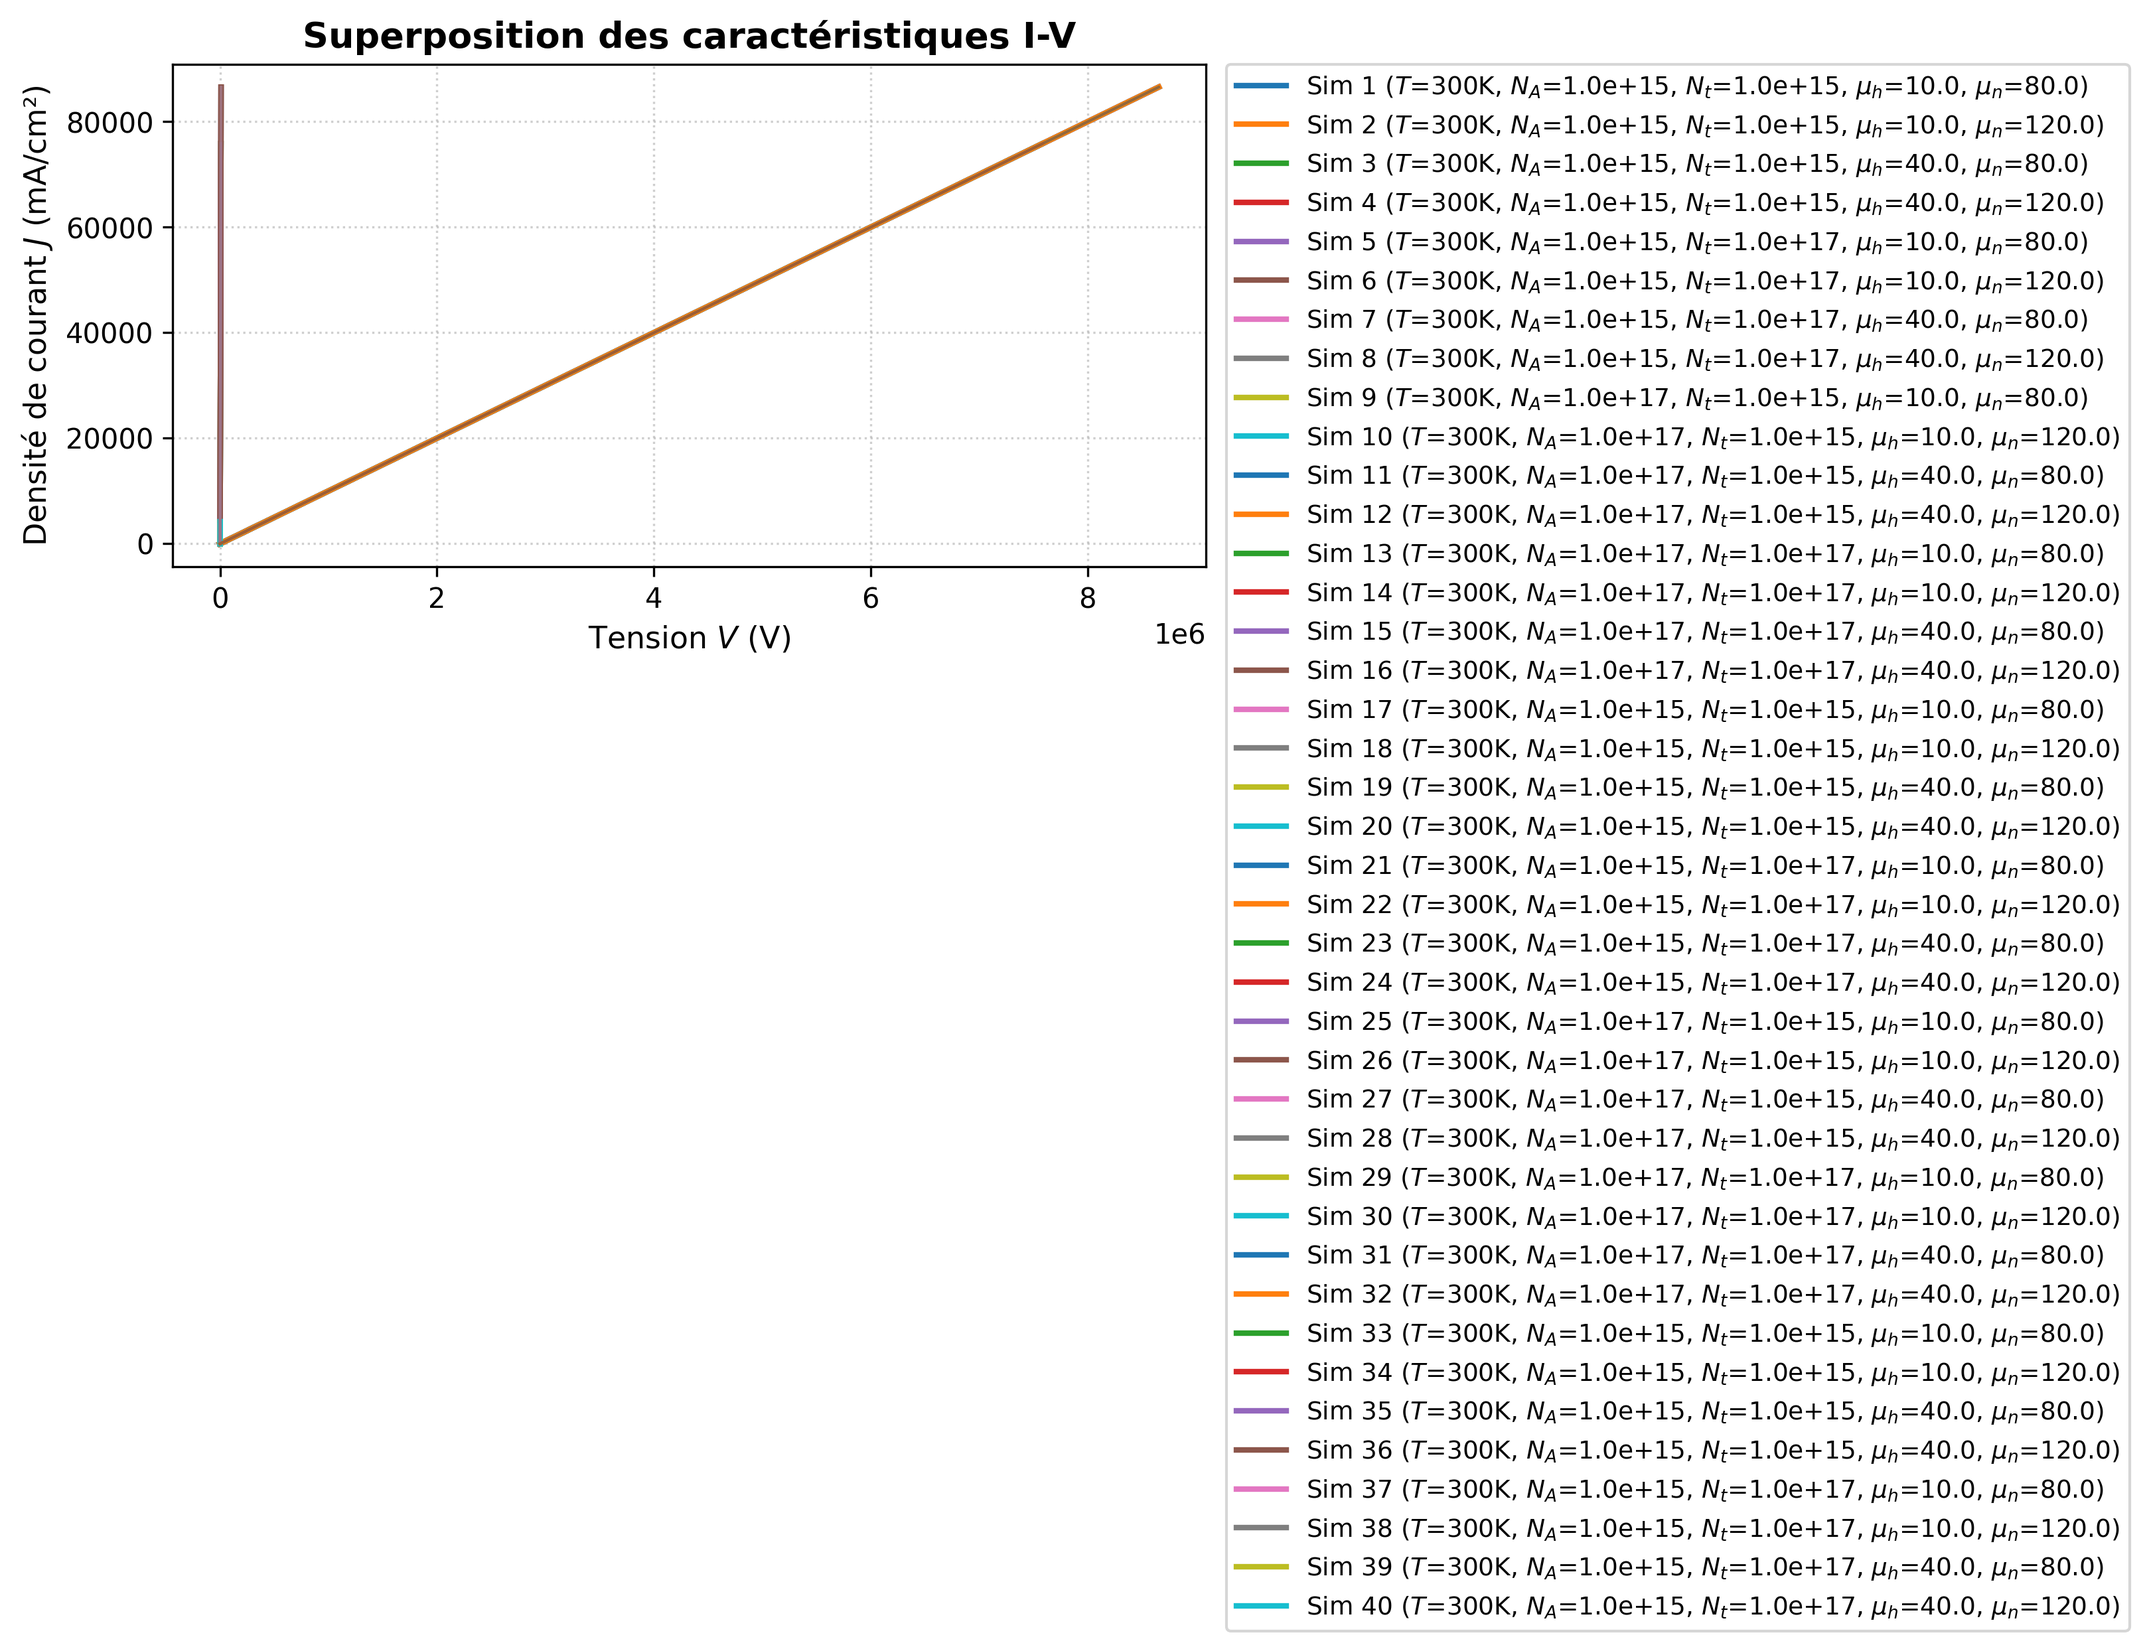
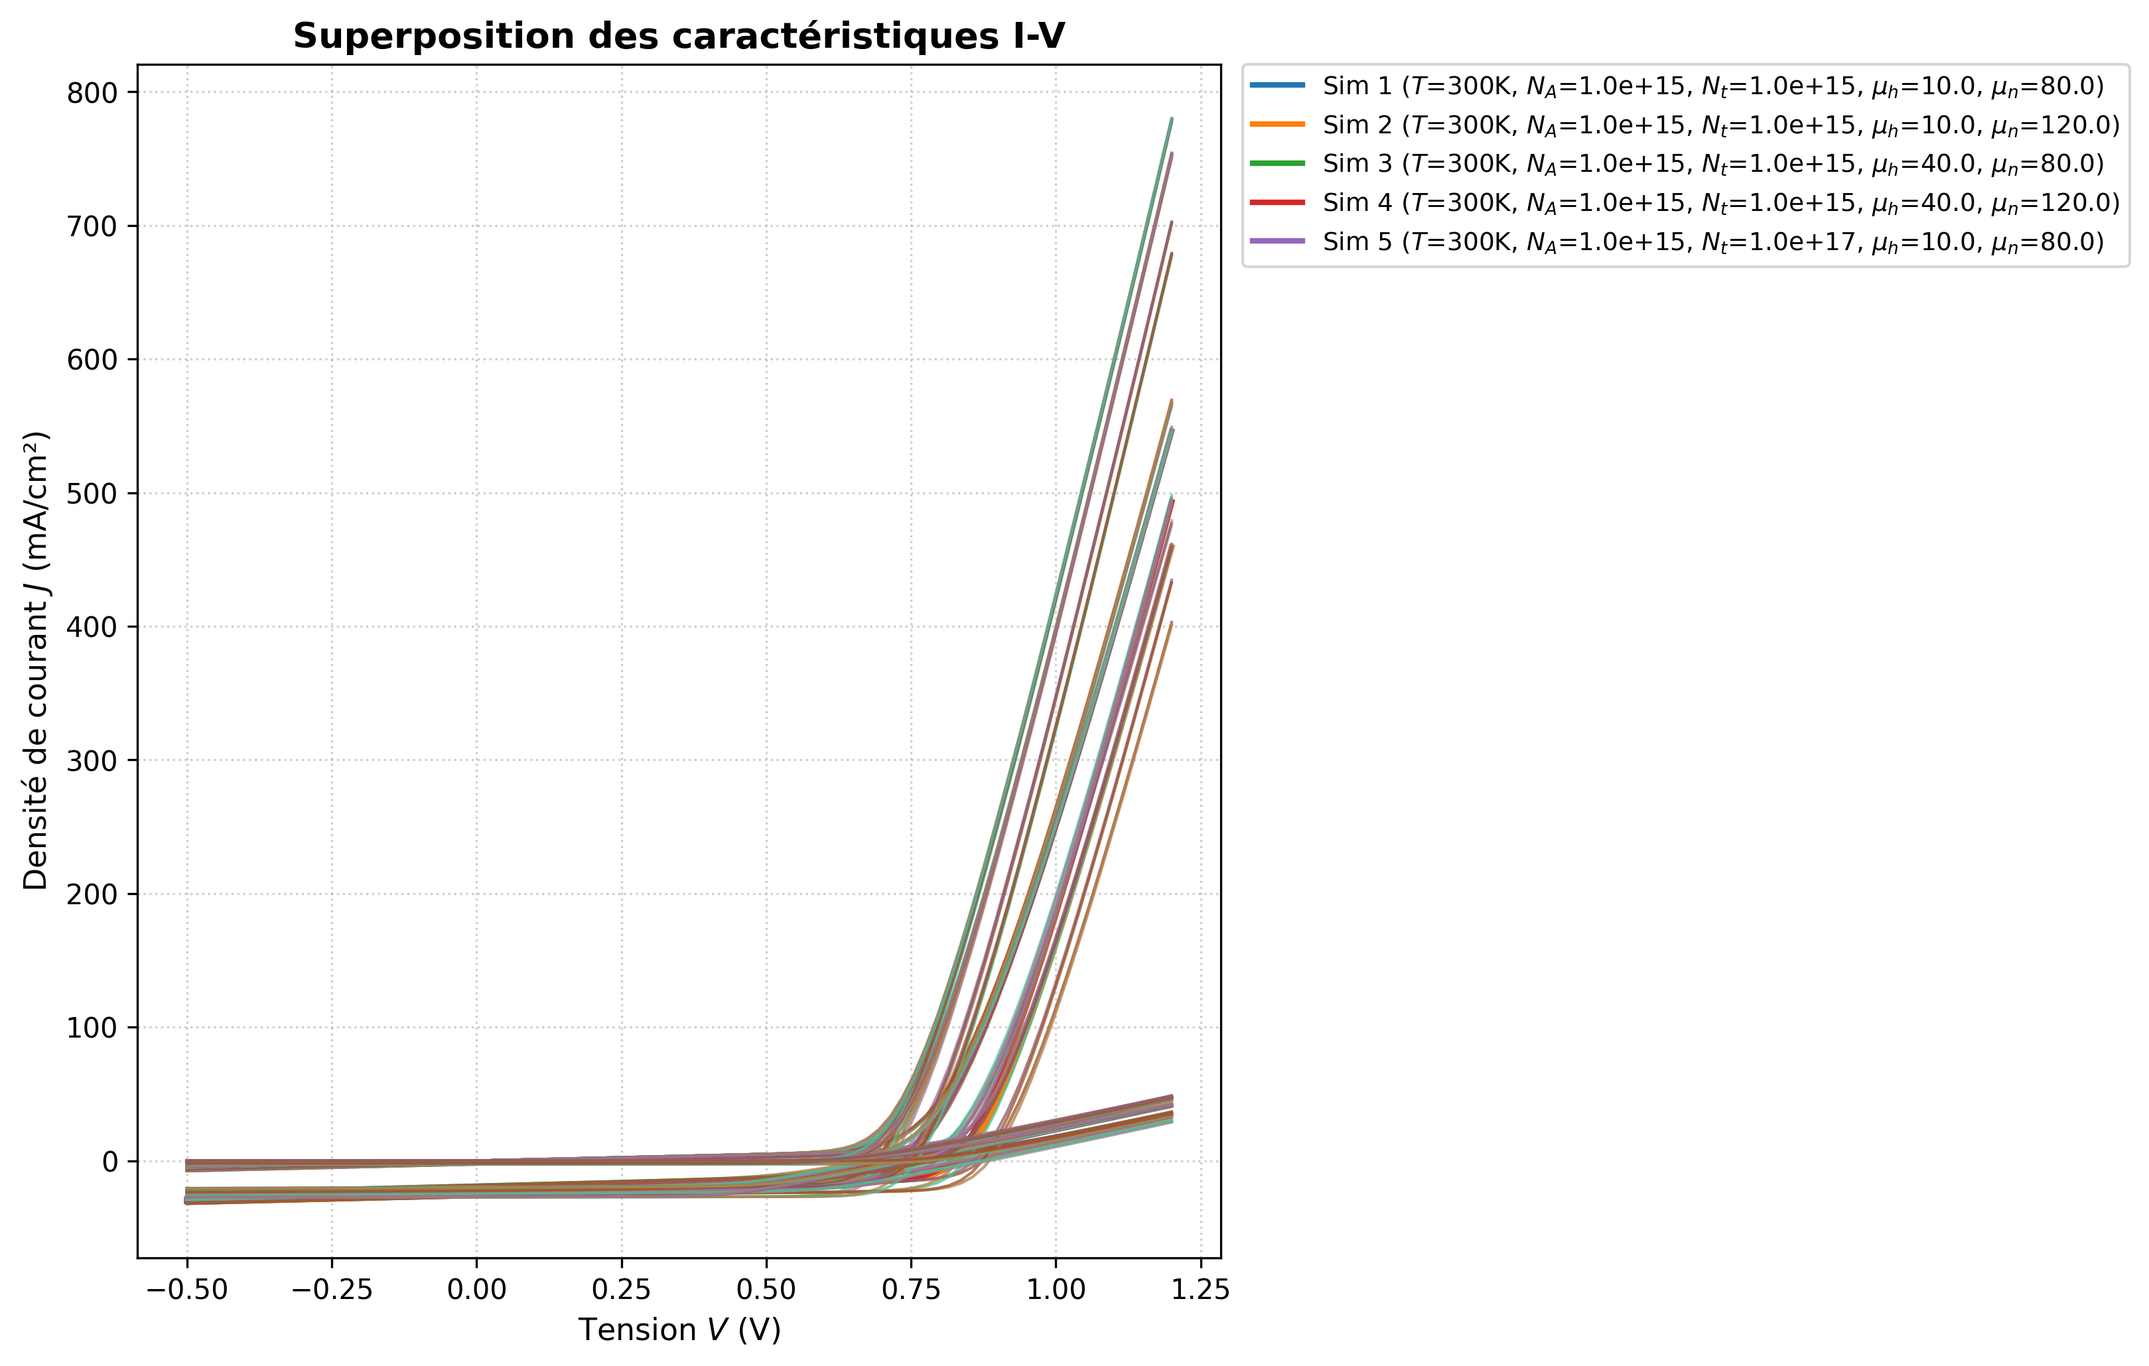
feature - code modulé + data processing

diff --git a/pipeline/db_batch_generator.py b/pipeline/db_batch_generator.py
@@ -1,0 +1,68 @@
+from pipeline.config import BATCH_PARAMETERS, CSV_IV_PATH, CSV_QE_PATH, SETTINGS
+from utils.utils import preparation_simulation, post_simulation_cleanup, delete_file, run_multiprocess, write_csv_file, baseline_information
+from pipeline.scaps_batch_simulation import run_batch
+from functools import partial
+import time
+
+singleshot = False # True pour exécuter en mode single shot, False pour exécuter en mode multiprocess
+
+def run_and_return(parameters, illumination="light", temperature=300, intensity=100, Rsh=1E2, singleshot=False):
+    return run_batch(f"simu_{parameters[0]['startvalue']}", 
+                     f"batch_{parameters[0]['startvalue']}", 
+                     parameters, illumination, temperature, intensity, Rsh, singleshot)
+
+
+def full_process_multi(process_task, id_def=None):
+    outputs = run_multiprocess(process_task, BATCH_PARAMETERS)
+    for batch_path, result_iv_path, result_qe_path, results_iv, results_qe in outputs:
+        delete_file(batch_path)
+        delete_file(result_iv_path)
+        delete_file(result_qe_path)
+        write_csv_file(results_iv, CSV_IV_PATH, id_def=id_def)
+        write_csv_file(results_qe, CSV_QE_PATH, id_def=id_def)
+    
+    post_simulation_cleanup()
+
+
+def full_process_single(batch_output, id_def=None):
+    batch_path, result_iv_path, result_qe_path, results_iv, results_qe = batch_output
+    delete_file(batch_path)
+    delete_file(result_iv_path)
+    delete_file(result_qe_path)
+    write_csv_file(results_iv, CSV_IV_PATH, id_def=id_def)
+    write_csv_file(results_qe, CSV_QE_PATH, id_def=id_def)
+
+
+if __name__ == "__main__":
+    def_id = baseline_information()
+
+    start_time = time.time()
+    # cas en singleshot :
+    if singleshot :
+        preparation_simulation()
+        batch_output = run_batch(
+            f"singleshot_simu_{BATCH_PARAMETERS[0][0]['startvalue']}", 
+            f"batch_{BATCH_PARAMETERS[0][0]['startvalue']}",
+            BATCH_PARAMETERS[0], illumination="light", temperature=300, intensity=100, Rsh=1E2, singleshot=True
+        )
+        full_process_single(batch_output, id_def=f"100,{1E2},{def_id}")
+
+        batch_output = run_batch(
+            f"singleshot_simu_{BATCH_PARAMETERS[0][0]['startvalue']}", 
+            f"batch_{BATCH_PARAMETERS[0][0]['startvalue']}",
+            BATCH_PARAMETERS[0], illumination="light", temperature=300, intensity=100, Rsh=1E5, singleshot=True
+        )
+        full_process_single(batch_output, id_def=f"100,{1E5},{def_id}")
+        post_simulation_cleanup()
+    # cas en multiprocess :
+    else :
+        # génération de l'ensemble des cas :
+        for temp, intensity, rsh in SETTINGS:
+            if intensity :
+                process_task = partial(run_and_return, illumination="light", temperature=temp, intensity=intensity, Rsh=rsh, singleshot=False)
+            else :
+                process_task = partial(run_and_return, illumination="dark", temperature=temp, intensity=intensity, Rsh=rsh, singleshot=False)
+            full_process_multi(process_task, id_def=f"{intensity},{rsh},{def_id}")
+
+    end_time = time.time()
+    print(f"Temps de traitement : {end_time - start_time:.2f} secondes")

diff --git a/pipeline/scaps_batch_simulation.py b/pipeline/scaps_batch_simulation.py
@@ -1,7 +1,7 @@
 import os
-from parser import parse_iv_file, parse_qe_file
-from utils import scaps_execution
-from config import SCRIPT_NAME, BASELINE_NAME_V2, BATCH_PATH, RESULTS_PATH
+from utils.parser import parse_iv_file, parse_qe_file
+from utils.utils import scaps_execution
+from pipeline.config import SCRIPT_NAME, BASELINE_NAME_V2, BATCH_PATH, RESULTS_PATH
 
 def generate_sbf_file(parameters, batch_name):
     """
@@ -37,7 +37,7 @@ def generate_sbf_file(parameters, batch_name):
         return False
 
 
-def run_scaps_batch_simulation(simulation_name, batch_name, illumination="light", temperature=300, intensity=100):
+def run_scaps_batch_simulation(simulation_name, batch_name, illumination="light", temperature=300, intensity=100, Rsh=1E2, singleshot=False):
     """
     exécute la simulation de scaps en utilisant le script généré
     :param simulation_name: nom du fichier de résultat de la simulation
@@ -45,6 +45,7 @@ def run_scaps_batch_simulation(simulation_name, batch_name, illumination="light"
     if illumination not in ["light", "dark"]:
         raise ValueError("L'illumination doit être 'light' ou 'dark'.")
     qe = 1 if illumination == "light" else 0
+    type = "singleshot" if singleshot else "batch"
 
     script_content = (
         # chargement des fichiers pour la simulation
@@ -70,12 +71,12 @@ def run_scaps_batch_simulation(simulation_name, batch_name, illumination="light"
         # f'action qe.points 85\n'
 
         # valeur des paramètres fixes
-        # f'set external.Rs {Rs}\n' # résistance série
-        # f'set external.Rsh {Rsh}\n' # résistance parallèle
+        f'set external.Rs 1E-13\n' # résistance série
+        f'set external.Rsh {Rsh}\n' # résistance parallèle
         # f'set layer1.Eg 1.55\n' # bandgap
         
         # obtention des résultats
-        f'calculate batch\n'
+        f'calculate {type}\n'
 
         f'save results.iv batch_{simulation_name}.iv\n'
         f'save results.qe batch_{simulation_name}.qe\n'
@@ -86,9 +87,9 @@ def run_scaps_batch_simulation(simulation_name, batch_name, illumination="light"
     scaps_execution(script_name, script_content)
 
 
-def run_batch(simulation_name, batch_name, batch_parameters, illumination="light", temperature=80, intensity=100):
+def run_batch(simulation_name, batch_name, batch_parameters, illumination="light", temperature=300, intensity=100, Rsh=1E2, singleshot=False):
     generate_sbf_file(batch_parameters, batch_name)
-    run_scaps_batch_simulation(simulation_name, batch_name, illumination, temperature, intensity)
+    run_scaps_batch_simulation(simulation_name, batch_name, illumination, temperature, intensity, Rsh, singleshot)
     full_batch_path = os.path.join(BATCH_PATH, f"{batch_name}.sbf")
     full_results_iv_path = os.path.join(RESULTS_PATH, f"batch_{simulation_name}.iv")
     full_results_qe_path = os.path.join(RESULTS_PATH, f"batch_{simulation_name}.qe")

diff --git a/data_processing/data_process.py b/data_processing/data_process.py
@@ -1,0 +1,67 @@
+import pandas as pd
+import numpy as np
+from scipy.interpolate import PchipInterpolator
+
+INPUT = './csv/iv_curve.csv'
+OUTPUT = './csv/iv_curve_processed.csv'
+
+TARGET_V = np.array([
+-0.500000,-0.479762,-0.459524,-0.439286,-0.419048,-0.398810,-0.378571,-0.358333,-0.338095,-0.317857,
+-0.297619,-0.277381,-0.257143,-0.236905,-0.216667,-0.196429,-0.176190,-0.155952,-0.135714,-0.115476,
+-0.095238,-0.075000,-0.054762,-0.034524,-0.014286,0.005952,0.026190,0.046429,0.066667,0.086905,
+0.107143,0.127381,0.147619,0.167857,0.188095,0.208333,0.228571,0.248810,0.269048,0.289286,
+0.309524,0.329762,0.350000,0.370238,0.390476,0.410714,0.430952,0.451190,0.471429,0.491667,
+0.511905,0.532143,0.552381,0.572619,0.592857,0.613095,0.633333,0.653571,0.673810,0.694048,
+0.714286,0.734524,0.754762,0.775000,0.795238,0.815476,0.835714,0.855952,0.876190,0.896429,
+0.916667,0.936905,0.957143,0.977381,0.997619,1.017857,1.038095,1.058333,1.078571,1.098810,
+1.119048,1.139286,1.159524,1.179762,1.200000
+])
+assert len(TARGET_V) == 85, len(TARGET_V)
+
+df = pd.read_csv(INPUT)
+n = len(df)
+
+Vcols = [f'V{i}' for i in range(1, 86)]
+Icols = [f'I{i}' for i in range(1, 86)]
+meta_cols = [c for c in df.columns if c not in Vcols + Icols]
+
+I_out = np.zeros((n, 85))
+trunc_lengths = np.zeros(n, dtype=int)
+
+for r in range(n):
+    V = df.loc[r, Vcols].values.astype(float)
+    I = df.loc[r, Icols].values.astype(float)
+
+    # Truncation: keep up to and including the first V strictly greater than 1.2
+    above = np.where(V > 1.2)[0]
+    if len(above) == 0:
+        cutoff = len(V) - 1  # no aberrant tail, keep all
+    else:
+        cutoff = above[0]   # include first point above 1.2, drop everything after
+
+    Vt = V[:cutoff + 1]
+    It = I[:cutoff + 1]
+    trunc_lengths[r] = len(Vt)
+
+    # PCHIP: shape-preserving cubic Hermite interpolation, well suited to IV curves
+    # (monotonic-ish, no Runge oscillation like a global cubic spline could introduce
+    # near the exponential knee of the diode curve)
+    interpolator = PchipInterpolator(Vt, It)
+    I_out[r, :] = interpolator(TARGET_V)
+
+# Build output dataframe: new V columns (identical target grid for every row),
+# new interpolated I columns, plus all original metadata (physical parameters)
+out = pd.DataFrame(index=df.index)
+for j, c in enumerate(Vcols):
+    out[c] = TARGET_V[j]
+for j, c in enumerate(Icols):
+    out[c] = I_out[:, j]
+for c in meta_cols:
+    out[c] = df[c]
+
+out.to_csv(OUTPUT, index=False)
+
+print('Rows processed:', n)
+print('Truncated length stats: min={}, max={}, mean={:.1f}'.format(
+    trunc_lengths.min(), trunc_lengths.max(), trunc_lengths.mean()))
+print('Saved to', OUTPUT)

diff --git a/pipeline/config.py b/pipeline/config.py
@@ -1,6 +1,6 @@
 import os
 from dotenv import load_dotenv
-from interval import split_interval, chunk_intervals
+from utils.interval import split_interval, chunk_intervals, format_sci
 from itertools import product
 
 load_dotenv()
@@ -20,6 +20,7 @@ BASELINE_NAME_V2 = os.getenv("BASELINE_FILENAME_V2")
 BASELINE_PATH = os.path.join(BASELINE_DIR, BASELINE_NAME)
 BASELINE_PATH_V2 = os.path.join(BASELINE_DIR, BASELINE_NAME_V2)
 CSV_IV_PATH = os.path.abspath(os.getenv("OUTPUT_CSV_IV_PATH"))
+CSV_IV_PROCESSED_PATH = os.path.abspath(os.getenv("OUTPUT_CSV_IV_PROCESSED_PATH"))
 CSV_QE_PATH = os.path.abspath(os.getenv("OUTPUT_CSV_QE_PATH"))
 CSV_DEF_PATH = os.path.abspath(os.getenv("OUTPUT_CSV_DEF_PATH"))
 SIMULATION_NAME = os.getenv("SIMULATION_FILENAME")
@@ -33,17 +34,8 @@ RS_LABEL2 = "nihil"
 RS_LABEL3 = "nihil"
 RS_LABEL4 = "nihil"
 RS_FROM = 5E-1
-RS_TO = 1E1
+RS_TO = 5E0
 RS_STEPS = 2
-
-# Résistance en parallèle Rsh :
-RSH_LABEL1 = "Rsh"
-RSH_LABEL2 = "nihil"
-RSH_LABEL3 = "nihil"
-RSH_LABEL4 = "nihil"
-RSH_FROM = 1E2
-RSH_TO = 1E5
-RSH_STEPS = 2
 
 # Dopage :
 P0_LABEL1 = "layer 1"
@@ -108,7 +100,6 @@ def generate_batch_parameter(label1, label2, label3, label4, from_val, to_val, s
 
 BATCH_PARAMETERS = []
 RS = generate_batch_parameter(RS_LABEL1, RS_LABEL2, RS_LABEL3, RS_LABEL4, RS_FROM, RS_TO, RS_STEPS)
-RSH = generate_batch_parameter(RSH_LABEL1, RSH_LABEL2, RSH_LABEL3, RSH_LABEL4, RSH_FROM, RSH_TO, RSH_STEPS)
 # P0 = generate_batch_parameter(P0_LABEL1, P0_LABEL2, P0_LABEL3, P0_LABEL4, blocs_de_calcul["from"], blocs_de_calcul["to"], blocs_de_calcul["steps"])
 P1 = generate_batch_parameter(P1_LABEL1, P1_LABEL2, P1_LABEL3, P1_LABEL4, DEFAULT_DENSITY_VOLUME_FROM, DEFAULT_DENSITY_VOLUME_TO, DEFAULT_DENSITY_VOLUME_STEPS)
 P2 = generate_batch_parameter(P2_LABEL1, P2_LABEL2, P2_LABEL3, P2_LABEL4, HOLE_FROM, HOLE_TO, HOLE_STEPS)
@@ -121,7 +112,8 @@ P3 = generate_batch_parameter(P3_LABEL1, P3_LABEL2, P3_LABEL3, P3_LABEL4, ELECTR
 
 # cas pour singleprocess :
 P0 = generate_batch_parameter(P0_LABEL1, P0_LABEL2, P0_LABEL3, P0_LABEL4, DOPAGE_FROM, DOPAGE_TO, DOPAGE_STEPS)
-BATCH_PARAMETERS.append([RS, RSH, P0, P1, P2, P3])
+BATCH_PARAMETERS.append([RS, P0, P1, P2, P3])
 
-# SETTINGS = combinaison_settings([300, 200], [100, 10, 1]) # Température (K) x Intensité (% de 1 sun)
-SETTINGS = [(300, 100), (280, 100), (300, 10)] # Température (K) x Intensité (% de 1 sun) #,
+# Température (K) x Intensité (% de 1 sun) x Rsh (Ohm.cm²)
+SETTINGS = [(300, 100, 1E2), (280, 100, 1E2), (300, 10, 1E2), (300, 0, 1E2),
+            (300, 100, 1E5), (280, 100, 1E5), (300, 10, 1E5), (300, 0, 1E5)]

diff --git a/pipeline/dataset_generator.py b/pipeline/dataset_generator.py
@@ -1,4 +1,4 @@
-from config import CSV_IV_PATH, CSV_QE_PATH
+from pipeline.config import CSV_IV_PROCESSED_PATH, CSV_IV_PATH, CSV_QE_PATH
 import pandas as pd
 
 import numpy as np
@@ -12,7 +12,7 @@ OUTPUT_PATH.parent.mkdir(parents=True, exist_ok=True)
 I_COLS      = [f"I{i}"      for i in range(1, 86)]   # I1 … I85
 QE_COLS     = [f"QE{i}"     for i in range(1, 62)]   # QE1 … QE61
 IV_EXTRA    = ["Voc", "Jsc", "FF", "eta", "V_MPP", "J_MPP"]
-SHARED_KEYS = ["N_A", "N_t", "mu_h"]
+SHARED_KEYS = ["Rs", "Rsh", "N_A", "N_t", "mu_h", "mu_n"]
 COND_COLS   = ["T", "intensity"]
 ID_COL      = ["ID_def"]
  
@@ -30,8 +30,8 @@ CASES = {
 CASES_WITH_QE = {"A", "B", "C"}   # D n'a pas de courbe QE
  
 # Lecture 
-print(f"Lecture de {CSV_IV_PATH} …")
-iv_df = pd.read_csv(CSV_IV_PATH)
+print(f"Lecture de {CSV_IV_PROCESSED_PATH} …")
+iv_df = pd.read_csv(CSV_IV_PROCESSED_PATH)
  
 print(f"Lecture de {CSV_QE_PATH} …")
 qe_df = pd.read_csv(CSV_QE_PATH)

diff --git a/data_plot/plot_iv_curves.py b/data_plot/plot_iv_curves.py
@@ -82,9 +82,9 @@ def plot_iv_curves(chemin_fichier, n_points=None):
         # Récupération des 4 derniers éléments de la ligne complète
         param_physiques = ligne[-9:]
 
-        if idx < 40:
+        if idx < 5:
             if len(ligne) >= (2 * n) + 4:
-                T, _, _, N_A, N_t, mu_h, mu_n, _, _ = param_physiques
+                T, _, N_A, N_t, mu_h, mu_n, _, _, _ = param_physiques
                 # Label combinant le numéro de simulation et les paramètres physiques
                 label_courbe = (
                     f"Sim {idx+1} ($T$={T:.0f}K, "
@@ -130,5 +130,5 @@ def plot_iv_curves(chemin_fichier, n_points=None):
     print(f"Graphique sauvegardé ({len(donnees)} courbe(s)) : {nom_image}")
 
 
-plot_iv_curves(r"./csv/iv_curve.csv")
+plot_iv_curves(r"./csv/iv_curve_processed.csv")
 # verifier_coherence_csv(r"./csv/iv_curve.csv")

diff --git a/utils/parser.py b/utils/parser.py
@@ -442,6 +442,11 @@ def parse_iv_file(
     For dark simulations, Voc/Jsc/FF/eta/V_MPP/J_MPP are set to '0'.
     Only the first two columns (V, J) are kept from the IV table in all cases.
     """
+    # iv_re = re.compile(
+    #     r'^\s*(-?\d+\.\d+(?:[eE][+-]?\d+)?)'   # Tension (col 1)
+    #     r'[\t ]+'                              # <--- Échoue ici à cause du '*'
+    #     r'(-?\d+\.\d+(?:[eE][+-]?\d+)?)'        # Courant (col 2)
+    # )
     iv_re = re.compile(
         r'^\s*(-?\d+\.\d+(?:[eE][+-]?\d+)?)\*?' # Ajout de \*? pour l'astérisque optionnel
         r'[\t ]+'

diff --git a/utils/utils.py b/utils/utils.py
@@ -4,8 +4,8 @@ import shutil
 import subprocess
 import psutil
 import multiprocessing
-from config import SCRIPT_PATH, SCAPS_PATH, DEF_PATH, BASELINE_NAME_V2, BASELINE_PATH_V2, CSV_DEF_PATH
-from parser import parse_def_file
+from pipeline.config import SCRIPT_PATH, SCAPS_PATH, DEF_PATH, BASELINE_NAME_V2, BASELINE_PATH_V2, CSV_DEF_PATH
+from utils.parser import parse_def_file
 
 def scaps_execution(script_name, script_content):
     """
